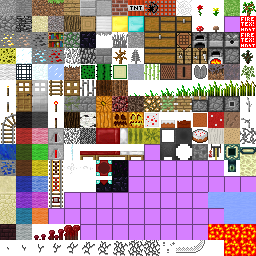
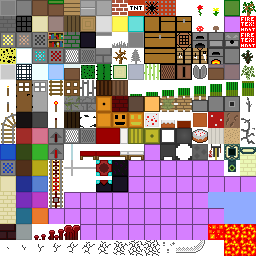
Adds a block selector.

diff --git a/js/player.js b/js/player.js
@@ -30,6 +30,7 @@ Player.prototype.setWorld = function( world )
 	this.angles = [ 0, Math.PI, 0 ];
 	this.falling = false;
 	this.keys = {};
+	this.buildMaterial = BLOCK.DIRT;
 }
 
 // setInputCanvas( id )
@@ -43,9 +44,48 @@ Player.prototype.setInputCanvas = function( id )
 	var t = this;
 	document.onkeydown = function( e ) { t.onKeyEvent( e.keyCode, true ); return false; }
 	document.onkeyup = function( e ) { t.onKeyEvent( e.keyCode, false ); return false; }
-	document.onmousedown = function( e ) { t.onMouseEvent( e.clientX, e.clientY, MOUSE.DOWN, e.which == 3 ); return false; }
-	document.onmouseup = function( e ) { t.onMouseEvent( e.clientX, e.clientY, MOUSE.UP, e.which == 3 ); return false; }
-	document.onmousemove = function( e ) { t.onMouseEvent( e.clientX, e.clientY, MOUSE.MOVE, e.which == 3 ); return false; }
+	canvas.onmousedown = function( e ) { t.onMouseEvent( e.clientX, e.clientY, MOUSE.DOWN, e.which == 3 ); return false; }
+	canvas.onmouseup = function( e ) { t.onMouseEvent( e.clientX, e.clientY, MOUSE.UP, e.which == 3 ); return false; }
+	canvas.onmousemove = function( e ) { t.onMouseEvent( e.clientX, e.clientY, MOUSE.MOVE, e.which == 3 ); return false; }
+}
+
+// setMaterialSelector( id )
+//
+// Sets the table with the material selectors.
+
+Player.prototype.setMaterialSelector = function( id )
+{
+	var tableRow = document.getElementById( id ).getElementsByTagName( "tr" )[0];
+	var texOffset = 0;
+	
+	for ( var mat in BLOCK )
+	{
+		if ( typeof( BLOCK[mat] ) == "object" && BLOCK[mat].spawnable == true )
+		{
+			var selector = document.createElement( "td" );
+			selector.style.backgroundPosition = texOffset + "px 0px";
+			
+			var pl = this;
+			selector.material = BLOCK[mat];
+			selector.onclick = function()
+			{
+				this.style.opacity = "1.0";
+				
+				pl.prevSelector.style.opacity = null;
+				pl.prevSelector = this;
+				
+				pl.buildMaterial = this.material;
+			}
+			
+			if ( mat == "DIRT" ) {
+				this.prevSelector = selector;
+				selector.style.opacity = "1.0";
+			}
+			
+			tableRow.appendChild( selector );
+			texOffset -= 70;
+		}
+	}
 }
 
 // onKeyEvent( keyCode, down )
@@ -138,7 +178,7 @@ Player.prototype.doBlockAction = function( x, y, destroy )
 		if ( destroy )
 			world.setBlock( intersection.pos.x, intersection.pos.y, intersection.pos.z, BLOCK.AIR );
 		else
-			world.setBlock( intersection.pos.x + intersection.normal.x, intersection.pos.y + intersection.normal.y, intersection.pos.z + intersection.normal.z, BLOCK.DIRT );
+			world.setBlock( intersection.pos.x + intersection.normal.x, intersection.pos.y + intersection.normal.y, intersection.pos.z + intersection.normal.z, this.buildMaterial );
 	}
 }
 

diff --git a/js/blocks.js b/js/blocks.js
@@ -17,17 +17,20 @@ BLOCK = {};
 
 // Air
 BLOCK.AIR = {
+	spawnable: false,
 	transparent: true
 };
 
 // Bedrock
 BLOCK.BEDROCK = {
+	spawnable: false,
 	transparent: false,
 	texture: function( world, lightmap, lit, x, y, z, dir ) { return [ 1/16, 1/16, 2/16, 2/16 ]; }
 };
 
 // Dirt
 BLOCK.DIRT = {
+	spawnable: true,
 	transparent: false,
 	selflit: false,
 	gravity: false,
@@ -45,6 +48,7 @@ BLOCK.DIRT = {
 
 // Wood
 BLOCK.WOOD = {
+	spawnable: true,
 	transparent: false,
 	selflit: false,
 	gravity: false,
@@ -60,6 +64,7 @@ BLOCK.WOOD = {
 
 // TNT
 BLOCK.TNT = {
+	spawnable: true,
 	transparent: false,
 	selflit: false,
 	gravity: false,
@@ -75,6 +80,7 @@ BLOCK.TNT = {
 
 // Bookcase
 BLOCK.BOOKCASE = {
+	spawnable: true,
 	transparent: false,
 	selflit: false,
 	gravity: false,
@@ -90,6 +96,7 @@ BLOCK.BOOKCASE = {
 
 // Lava
 BLOCK.LAVA = {
+	spawnable: false,
 	transparent: true,
 	selflit: true,
 	gravity: true,
@@ -99,6 +106,7 @@ BLOCK.LAVA = {
 
 // Plank
 BLOCK.PLANK = {
+	spawnable: true,
 	transparent: false,
 	selflit: false,
 	gravity: false,
@@ -108,6 +116,7 @@ BLOCK.PLANK = {
 
 // Cobblestone
 BLOCK.COBBLESTONE = {
+	spawnable: true,
 	transparent: false,
 	selflit: false,
 	gravity: false,
@@ -117,6 +126,7 @@ BLOCK.COBBLESTONE = {
 
 // Concrete
 BLOCK.CONCRETE = {
+	spawnable: true,
 	transparent: false,
 	selflit: false,
 	gravity: false,
@@ -126,6 +136,7 @@ BLOCK.CONCRETE = {
 
 // Brick
 BLOCK.BRICK = {
+	spawnable: true,
 	transparent: false,
 	selflit: false,
 	gravity: false,
@@ -135,6 +146,7 @@ BLOCK.BRICK = {
 
 // Sand
 BLOCK.SAND = {
+	spawnable: true,
 	transparent: false,
 	selflit: false,
 	gravity: true,
@@ -144,6 +156,7 @@ BLOCK.SAND = {
 
 // Gravel
 BLOCK.GRAVEL = {
+	spawnable: true,
 	transparent: false,
 	selflit: false,
 	gravity: true,
@@ -153,6 +166,7 @@ BLOCK.GRAVEL = {
 
 // Iron
 BLOCK.IRON = {
+	spawnable: true,
 	transparent: false,
 	selflit: false,
 	gravity: false,
@@ -162,6 +176,7 @@ BLOCK.IRON = {
 
 // Gold
 BLOCK.GOLD = {
+	spawnable: true,
 	transparent: false,
 	selflit: false,
 	gravity: false,
@@ -171,6 +186,7 @@ BLOCK.GOLD = {
 
 // Diamond
 BLOCK.DIAMOND = {
+	spawnable: true,
 	transparent: false,
 	selflit: false,
 	gravity: false,
@@ -180,6 +196,7 @@ BLOCK.DIAMOND = {
 
 // Obsidian
 BLOCK.OBSIDIAN = {
+	spawnable: true,
 	transparent: false,
 	selflit: false,
 	gravity: false,
@@ -189,6 +206,7 @@ BLOCK.OBSIDIAN = {
 
 // Glass
 BLOCK.GLASS = {
+	spawnable: true,
 	transparent: true,
 	selflit: false,
 	gravity: false,
@@ -198,6 +216,7 @@ BLOCK.GLASS = {
 
 // Sponge
 BLOCK.SPONGE = {
+	spawnable: true,
 	transparent: false,
 	selflit: false,
 	gravity: false,

diff --git a/index.html b/index.html
@@ -23,25 +23,16 @@
 		<!-- Render surface -->
 		<canvas id="renderSurface"></canvas>
 		
+		<!-- Material selection -->
+		<table id="materialSelector">
+			<tr></tr>
+		</table>
+		
 		<!-- Initialisation code -->
 		<script type="text/javascript">			
 			// Create a new flat world
 			var world = new World( 16, 16, 16 );
 			world.createFlatWorld( 2 );
-			
-			/// World modification test
-			for ( var i = 2; i <= 4; i++ ) world.setBlock( 1, 1, i, BLOCK.DIRT );
-			for ( var i = 2; i <= 4; i++ ) world.setBlock( 3, 1, i, BLOCK.DIRT );
-			for ( var i = 2; i <= 4; i++ ) world.setBlock( 1, 3, i, BLOCK.DIRT );
-			for ( var i = 2; i <= 4; i++ ) world.setBlock( 3, 3, i, BLOCK.DIRT );
-			world.setBlock( 2, 1, 4, BLOCK.DIRT );
-			world.setBlock( 1, 2, 4, BLOCK.DIRT );
-			world.setBlock( 2, 3, 4, BLOCK.DIRT );
-			world.setBlock( 3, 2, 4, BLOCK.DIRT );
-			
-			world.setBlock( 4, 3, 3, BLOCK.DIRT );
-			world.setBlock( 4, 3, 2, BLOCK.DIRT );
-			world.setBlock( 5, 3, 2, BLOCK.DIRT );
 			
 			// Set up renderer
 			var render = new Renderer( "renderSurface" );
@@ -56,6 +47,7 @@
 			var player = new Player();
 			player.setWorld( world );
 			player.setInputCanvas( "renderSurface" );
+			player.setMaterialSelector( "materialSelector" );
 			
 			// Render loop			
 			setInterval( function()
@@ -69,7 +61,7 @@
 				player.update();
 				
 				// Build a chunk
-				render.buildChunks( 1 );
+				render.buildChunks( 5 );
 				
 				// Draw world
 				render.setCamera( player.getEyePos().toArray(), player.angles );

diff --git a/style/main.css b/style/main.css
@@ -15,17 +15,32 @@ body {
 	height: 100%;
 }
 
-/* FPS display */
+/* Material selector */
 
-#fpsContainer {
-	position: absolute;
-	left: 10px;
-	top: 10px;
+#materialSelector {
+	position: relative;
+	margin: auto;
+	
+	background: rgba( 0, 0, 0, 0.6 );
 }
 
-#fpsDisplay {
-	font-family: sans-serif;
-	font-size: 12px;
+#materialSelector tr {
+	height: 70px;
+}
+
+#materialSelector td {
+	width: 70px;
+	margin: 0;
+	padding: 0;
 	
-	color: white;
+	cursor: pointer;
+	
+	opacity: 0.3;
+	
+	background: url( '../media/blockthumbs.png' );
+	background-position: 0px 0px;
+}
+
+#materialSelector td:hover {
+	opacity: 0.8;
 }

diff --git a/js/render.js b/js/render.js
@@ -77,7 +77,7 @@ function Renderer( id )
 		gl.texParameteri( gl.TEXTURE_2D, gl.TEXTURE_MIN_FILTER, gl.NEAREST );
 		gl.uniform1i(  this.uSampler, 0 );
 	};
-	texture.image.src = "media/terrain_anybox.png";
+	texture.image.src = "media/terrain.png";
 }
 
 // draw()
